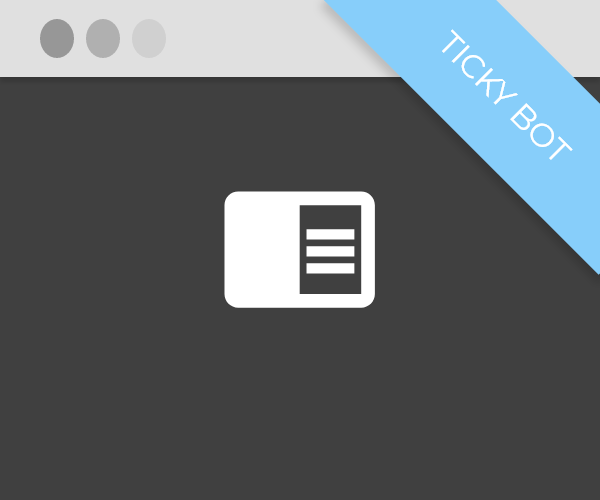
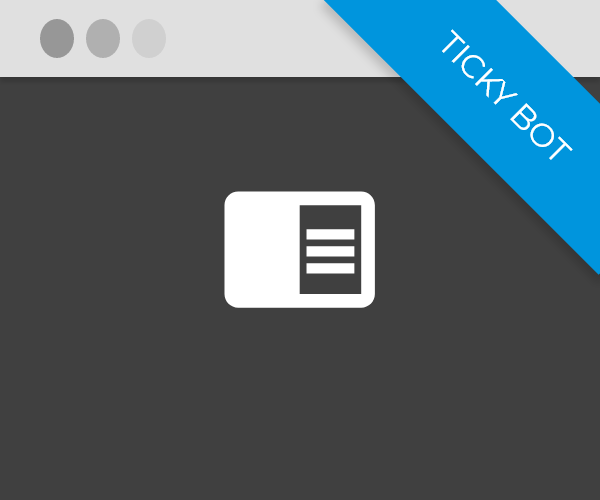
modified images with correct blue hue

Changed region(s): [[0.54, 0.0, 1.0, 0.57]]

diff --git a/style-mobile.css b/style-mobile.css
@@ -74,7 +74,7 @@
   }
 
   strong {
-    color: #87cefa;
+    color: #0095dd;
   }
 
   #p1 {
@@ -164,7 +164,7 @@
     background: #000;
     padding: 1rem;
     text-decoration: none;
-    color: #87cefa;
+    color: #0095dd;
     font-size: 1rem;
     border: 2px solid #fff;
     border-radius: 2rem;
@@ -351,7 +351,7 @@
   }
 
   strong {
-    color: #87cefa;
+    color: #0095dd;
   }
 
   #p1 {
@@ -442,7 +442,7 @@
     background: #000;
     padding: 1rem;
     text-decoration: none;
-    color: #87cefa;
+    color: #0095dd;
     font-size: 1rem;
     border: 2px solid #fff;
     border-radius: 2rem;

diff --git a/style.css b/style.css
@@ -96,7 +96,7 @@ header{
  }
 
  strong{
-    color: #87cefa;
+    color: #0095dd;
  }
 
  #p1{
@@ -190,7 +190,7 @@ header{
         background: #000;
         padding: 1rem;
         text-decoration: none;
-        color: #87cefa;
+        color: #0095dd;
         font-size: 1rem;
         border: 2px solid #fff;
         border-radius: 2rem;
@@ -310,7 +310,7 @@ footer > p{
 
 /* ----------------------------------------------- */
 .active{
-    color: #87cefa !important;
+    color: #0095dd !important;
     
 }
 /* ------------------------------------------------- */
